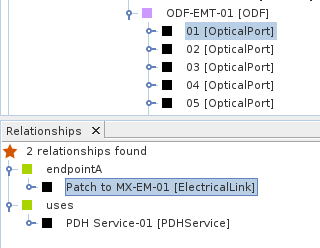
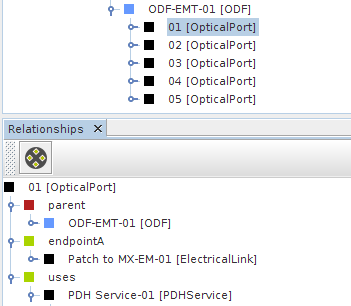
update admin and user manual

Changed region(s): [[0.0, 0.0, 1.0, 1.0]]

diff --git a/docs/user_manual/user_manual.tex b/docs/user_manual/user_manual.tex
@@ -79,6 +79,8 @@
 				July 27th 2016 & Adapted to Kuwaiba version 1.0. LaTeX is now used instead of LibreOffice to create the documentation. \\
 				\midrule
 				December 19th 2016 & Added documentation for templates and reports.\\
+				\midrule
+				June 1th 2017 & Added documentation for Bookmarks, Update Center, Projects and new functions in the Relationship Explorer.\\
 				\bottomrule
 			\end{tabular}	
 				
@@ -192,9 +194,13 @@
 			\midrule
 			\includegraphics[width=0.5cm]{img/icon_topology_designer.png} & Freely design network topologies\\
 			\midrule
+			\includegraphics[width=0.5cm]{img/icon_bookmarks.png} & Create and manage Bookmark Folders and Bookmarks\\
+			\midrule
 			\includegraphics[width=0.5cm]{img/icon_navigation_tree.png} & Main tree used to explore physical assets\\
 			\midrule
 			\includegraphics[width=0.5cm]{img/icon_pools_manager.png} & Create and manage objects that don't fit in the navigation tree\\
+			\midrule
+			\includegraphics[width=0.5cm]{img/icon_reports.png} & Crate and manage reports\\
 			\midrule
 			\includegraphics[width=0.5cm]{img/icon_service_manager.png} & Manage client, services and resources associated to them\\
 		\end{tabular}	
@@ -340,21 +346,30 @@
 	Every node has a set of actions, some will be active for all objects, some depend on the type of element that is selected. In the figure~\ref{fig:navigation_tree_context_menu} you can see the actions enabled for a \textbf{Rack} object. \\
 	\begin{figure}[h!]
 		\centering
-		\includegraphics[width=0.5\linewidth]{img/navigation_tree_context_menu.png}
-		\caption{Properties of a selected \textbf{Rack} object}
+		\includegraphics[width=0.7\linewidth]{img/navigation_tree_context_menu.png}
+		\caption{Actions of selected \textbf{Rack} object}
 		\label{fig:navigation_tree_context_menu}
 	\end{figure}
 	\begin{itemize}
-		\item \textbf{New Object:} The list of object types that can be contained for the selected element type according to the configured Containment Hierarchy. In this case, a \textbf{Rack} can only contain \textbf{Routers}.
+		\item \textbf{New:} The list of object types that can be contained for the selected element type according to the configured Containment Hierarchy. In this case, a \textbf{Rack} can contain \textbf{DDFs}, \textbf{ODFs}, \textbf{Routers}, etc.
+		\item \textbf{New from template:} Crates a containment structure. See more details in the chapter \nameref{sec:template_manager}
 		\item \textbf{Copy:} A plain copy operation.
+		\item \textbf{Cut:} A plain cut operation.
 		\item \textbf{Paste:} A plain paste operation. You can only paste objects where it is allowed according to the configured Containment Hierarchy.
-		\item \textbf{Update:} Update the node information. Useful when a changed has made to the object from a external source (e.g. another user) or if you create a new list type affecting one of the attributes of the selected element. In this case, if you, for example, create an instance of \textbf{EquipmentVendor} (this will add a new entry to the \textbf{vendor} attribute list)
-		\item \textbf{Delete:} Deletes the object. Tis will fail if the object has an incoming relationship, for example, a \textbf{Port} connected to a cable.
+		\item \textbf{Update:} Updates the node information. Useful when a changed has made to the object from a external source (e.g. another user) or if you create a new list type affecting one of the attributes of the selected element. In this case, if you, for example, create an instance of \textbf{EquipmentVendor} (this will add a new entry to the \textbf{vendor} attribute list)
+		\item \textbf{Edit:} Opens a Property Sheet to edit the attributes values of the selected Inventory object node.
+		\item \textbf{Delete:} Deletes the object. This will fail if the object has an incoming relationship, for example, a \textbf{Port} connected to a cable.
 		\item \textbf{Reports:} The reports associated to the objects of this class. In this case, \textbf{Rack} has a report called \textbf{Rack Usage}. If no reports are associated, this entry will appear grayed out.
 		\item \textbf{Relate to service:} All inventory objects can be associated to an existing service. See more details in the chapter \nameref{sec:service_manager}.
 		\item \textbf{Release from Service:} Removes the association between an object(resource) and a service. If the object is not related to any service, this option will appear grayed out.
+		\item \textbf{Add to Bookmark Folder:} All inventory objects can be added to an existing Bookmark Folder. See more details in the chapter \nameref{sec:bookmarks}.
+		\item \textbf{Remove from Bookmark Folder:} Removes the association between an object (bookmark) and a Bookmark Folder. If the object is not related to any Bookmark Folder, this option appear grayed out.
 		\item \textbf{Audit Trail:} This will display all the audit trail entries for the selected object, that is, all the changes made to the it.
-		\item \textbf{Open an Explorer from this Node:} Opens a navigation tree whose root node will be the selected object. Useful when you want to explore an object with a many containment levels below.
+		\item \textbf{Relate to Project:} All inventory object can be a resource of an existing Project. See more details in the chapter \nameref{sec:projects}
+		\item \textbf{Release from Project:} Removes a selected object (resource) form a Project. If the object is not related to any Project, this option appear grayed out.
+		\item \textbf{Relate to Contract:} All inventory objects can be associated to an existing Contract. See more details in chapter \nameref{sec:contract_manager}
+		\item \textbf{Release from Contract:} Removes the association between an object a contract. If the object is not related to any contract, this option will appear grayed out.
+		\item \textbf{Open a Navigation tree from Here:} Opens a Navigation tree whose root node will be the selected object. Useful when you want to explore an object with a many containment levels below.
 		\item \textbf{Show More Information:} Shows the database id of the selected object. Useful for troubleshooting purposes. It will also show the object's complete containment structure.
 			\begin{figure}[h!]
 				\centering
@@ -371,22 +386,52 @@
 	\end{framed}
 	\subsection{Relationship and Special Children Explorer} \label{sec:extra_explorers}
 	Apart from the main navigation tree, there are also two explorers that are very useful to navigate through domain-specific models. Both explorers are located in the Tools $\rightarrow$ Navigation menu.
-	\begin{itemize}
-		\item \textbf{Relationship Explorer:} Allows to see the special relationships of the selected object. When an object makes part of a domain-specific model (SDH, Physical Connections, MPLS, Software Licensing, etc) there are special bounds to other objects called \textbf{relationships} they have names documented on model-basis, and they can be seen using this explorer. In the figure~\ref{fig:navigation_tree_relationship_explorer}, it is depicted an \textbf{OpticalPort} with two relationships, one called \textbf{endpointA} used in the Physical Connections model and it indicates that this port is the endpoint to a physical connection, probably a fiber optic. It also has a relationship called \textbf{uses}, which makes part of the Service management model. It indicates that the service called PDH Service-01 uses that port as a resource.
-			\begin{figure}[h!]
-				\centering
-				\includegraphics[width=0.4\linewidth]{img/navigation_tree_relationship_explorer.png}
-				\caption{Special relationships of the selected \textbf{OpticalPort} object}
-				\label{fig:navigation_tree_relationship_explorer}
-			\end{figure}
-		\item \textbf{Special Children Explorer:} The special children are children as in the containment hierarchy concept, but used in domain-specific models, which gives them particular behavior depending on the situation (that is, they can't be handled as simple objects in the navigation tree, because, for example, deleting them may require to perform other tasks but just removing the object from the database as they make part of a complex workflow). This is the case of the cables inside a conduit connecting two buildings. You can find more details about this scenario in the chapter \textbf{\nameref{sec:physical_connections}}.
-			\begin{figure}[h!]
-				\centering
-				\includegraphics[width=0.3\linewidth]{img/navigation_tree_special_children_explorer.png}
-				\caption{Fibers inside a container between two buildings}
-				\label{fig:navigation_tree_special_children_explorer}
-			\end{figure}
-	\end{itemize}
+
+	\subsubsection{Relationship Explorer} \label{sec:extra_explorers_relationship_explorer}
+		Allows to see the special relationships of the selected object. When an object makes part of a domain-specific model (SDH, Physical Connections, MPLS, Software Licensing, etc) there are special bounds to other objects called \textbf{relationships} they have names documented on model-basis, and they can be seen using this explorer. In the figure~\ref{fig:navigation_tree_relationship_explorer}, it is depicted an \textbf{OpticalPort} with three relationships, one called \textbf{parent}, which all inventory objects has and it is used to navigate in the containment structure, the \textbf{endpointA} used in the Physical Connections model and it indicates that this port is the endpoint to a physical connection, probably a fiber optic. It also has a relationship called \textbf{uses}, which makes part of the Service management model. It indicates that the service called PDH Service-01 uses that port as a resource.
+		
+		\begin{figure}[h!]
+			\centering
+			\includegraphics[width=0.4\linewidth]{img/navigation_tree_relationship_explorer.png}
+			\caption{Special relationships of the selected \textbf{OpticalPort} object}
+			\label{fig:navigation_tree_relationship_explorer}
+		\end{figure}
+		
+		In the Relationship Explorer you have a toolbar with one button which allows you navigate through the special relationships by means of a graphical representation, you can open the canvas figure~\ref{fig:graphical_representation_relationships} just right click in the icon \includegraphics[width=0.5cm]{img/icon_graphical_representation_relationships.png}		
+						
+		\begin{figure}[h!]
+			\centering
+			\includegraphics[width=0.4\linewidth]{img/graphical_representation_relationships.png}
+			\caption{Special relationships canvas}
+			\label{fig:graphical_representation_relationships}
+		\end{figure}
+			
+		In the canvas figure~\ref{fig:graphical_representation_relationships} you have a toolbar with a set of option listed in the Table~\ref{tab:graphical_representation_relationships_toolbar_icons}.
+			
+		\begin{table}[h!]
+			\centering
+			\begin{tabular}{cl}
+				\includegraphics[width=0.5cm]{img/icon_collapse_all.png} & Hide all special relationships\\
+				\midrule
+				\includegraphics[width=0.5cm]{img/icon_export_as_image.png} & Export as image\\
+				\midrule
+				\includegraphics[width=0.5cm]{img/icon_reorganize_nodes.png} & If the nodes are overlapped, you can organize them using this button\\
+				\midrule
+			\end{tabular}
+			\caption{Graphical representation of special relationships toolbar icons}
+			\label{tab:graphical_representation_relationships_toolbar_icons}
+		\end{table}
+			
+		\subsubsection{Special Children Explorer} \label{sec:extra_explorers_children_explorer}							
+		The special children are children as in the containment hierarchy concept, but used in domain-specific models, which gives them particular behavior depending on the situation (that is, they can't be handled as simple objects in the navigation tree, because, for example, deleting them may require to perform other tasks but just removing the object from the database as they make part of a complex workflow). This is the case of the cables inside a conduit connecting two buildings. You can find more details about this scenario in the chapter \textbf{\nameref{sec:physical_connections}}.
+						
+		\begin{figure}[h!]
+			\centering
+			\includegraphics[width=0.3\linewidth]{img/navigation_tree_special_children_explorer.png}
+			\caption{Fibers inside a container between two buildings}
+			\label{fig:navigation_tree_special_children_explorer}
+		\end{figure}
+			
 	\newpage
 	\section{Template Manager} \label{sec:template_manager}
 	In many scenarios there are some containment structures that are created recurrently, like Building $\rightarrow$ Floor $\rightarrow$ Room $\rightarrow$ Rack, or ODF/DDFs with the same number of ports (12/24/36/48/72/96/144), or simply equipment with the same set of attributes, for example all the routers of certain model: The vendor, number of rack units, slots, etc will be always the same. Creating them from scratch every time is a tedious task. For this reason, Kuwaiba provides a module that allows you to create template of objects which actual inventory elements can be created from. Go to Tools $\rightarrow$ Template Manager to open it.
@@ -1738,7 +1783,7 @@
 			\label{fig:ipam_root_nodes_actions}
 		\end{figure}
 		
-		\subsubsection{Folders}
+		\subsection{Folders}
 		A folder is a way to store and arrange several subnets, you can create as many folders as you want, you can also create a folder inside other folder.
 		\begin{figure}[h!]
 			\centering
@@ -1749,7 +1794,7 @@
 		
 		Once you create a folder, you could edit its attributes, \textbf{name} and \textbf{description} in the property sheet just like any other element in kuwaiba
 
-		\subsubsection{Creating Subnets}
+		\subsection{Creating Subnets}
 		\begin{figure}[h!]
 			\centering
 			\includegraphics[width=0.4\linewidth]{img/ipam_folder_actions.png}
@@ -1767,7 +1812,7 @@
 			\label{fig:ipam_add_subnet}
 		\end{figure}
 		
-		\subsubsection{Adding IPs}
+		\subsection{Adding IPs}
 		
 		Once you have created a subnet you can an add an IP address or a range of IP addresses, making right click in the subnet and then selecting \textit{add IP address} kuwaiba will show you a form to add IPs.
 		\begin{figure}[h!]
@@ -1785,7 +1830,7 @@
 			\label{fig:ipam_add_ip_address}
 		\end{figure}
 	
-	   	\subsubsection{Creating nested Subnets}
+	   	\subsection{Creating nested Subnets}
 	   	
 		Subnets can be nested inside other subnets as long as the limits of subnet you are trying to nest belongs  completely to the biger subnet, to nest a a subnet inside other subnet, make right click in the wished subnet and then select \textit{Create subnet}, Kuwaiba will show you the form to create a subnet, by default the subnet field will be filled with the bigger subent Network IP address, so you shall complete the CIDR format with the number of bits for the mask.
 		\begin{figure}[h!]
@@ -1997,7 +2042,7 @@
 		\end{figure}
 		
 		Currently is only possible to add/remove groups to/from a user (not vice versa)
-		
+				
 		\newpage
 		\section{Bulk import}\label{sec:bulk_import}
 			Kuwaiba  provides a  way  to  import  objects  and  list  types  from CVS text files with a define format.  This  module  can be  found at \textit{Tools} $\rightarrow$ \textit{Bulk Import}. Examples of these files are included in the client installer bundle under the directory \textit{Samples}.
@@ -2094,5 +2139,96 @@
 					\item If you perform changes infile after loading it (that is, after pressing \textit{Select file}), you will have to select it again so it can take the changes, otherwise, it will process the old file instead. To save the output messages, right-click the window.
 					\end{itemize}
 				\end{framed}
+		\newpage
+		\section{Bookmarks}\label{sec:bookmarks}
+		
+			The Bookmarks module let you manage bookmarks. In Kuwaiba a bookmark are an object of the inventory which are pooled in a bookmark folder. To open the Bookmarks module look in the menu for Tools $\rightarrow$ Bookmarks or just click in the icon
+			\includegraphics[width=0.5cm]{img/icon_bookmarks.png}
+			
+			\begin{figure}[h!]
+				\centering
+				\includegraphics[width=0.5\linewidth]{img/bookmarks.png}
+				\caption{Bookmarks sample}
+				\label{fig:bookmakrs}
+			\end{figure}
+			
+			To add a object from the Navigation Tree just right click and select the option of Add to bookmark folder \textbf{figure~\ref{fig:add_to_bookmark_folder}} or Remove from Bookmark Folder to remove it.
+						
+			\begin{figure}[h!]
+				\centering
+				\includegraphics[width=0.8\linewidth]{img/bm_add_to_bookmark_folder.png}
+				\caption{Add to Bookmark folder}
+				\label{fig:add_to_bookmark_folder}
+			\end{figure}
+							
+		\newpage
+		\section{Update Center}\label{sec:update_center}
+		The Update Center module is used to get the latest version of Kuwaiba. Your Administrator must provided to you a URL where was located the update center. To open the Update Center module look in the menu for Tools $\rightarrow$ Update Center
+		\newline
+		Once the Update Center URL was assigned, and doing just click in the OK button, must be begin the update right away. For the next Kuwaiba run if  there are updates, the update will be automatically, and if is necessary restart the application, it shows a notification to begin the restart.
+		\newline
+		For details see Appendix E in the administrator's manual
+		
+		\begin{figure}[h!]
+			\centering
+			\includegraphics[width=0.7\linewidth]{img/update_center.png}
+			\caption{Update Center options}
+			\label{fig:update_center_options}
+		\end{figure}		
+		
+		\newpage		
+		\section{Projects}\label{sec:projects}
+		
+			The Project module allows you have all projects, activities and resources in a place. To open the Projects module look in the menu for Tools $\rightarrow$ Advanced $\rightarrow$ Projects
+			\newline
+			
+			\begin{figure}[h!]
+				\centering
+				\includegraphics[width=0.5\linewidth]{img/projects.png}
+				\caption{Projects sample}
+				\label{fig:projects}
+		    \end{figure}
+		    
+		    To start using the Projects module you must crate a Project, depending of the loaded data model you can create project of GeneralPurposeProject or NetworkProject or any subclass of GenericProject (see \textbf{\nameref{sec:data_model_manager}} if you need to create a different kind  of Projects).
+		    \newline
+		    
+		    \begin{figure}[h!]
+		    	\centering
+		    	\includegraphics[width=0.5\linewidth]{img/projects_actions.png}
+		    	\caption{Add Projects}	    
+		    	\label{fig:projects_actions}
+		    \end{figure}
+		    
+		    A Project can contain sub projects or activities, you can create an activity just making right click in a Project an selecting the kind of Activity you want to add, if you need to create a different kind of Activities (see \textbf{\nameref{sec:data_model_manager}})
+		    \newline
+		    
+		    \begin{figure}[h!]
+		    	\centering
+		    	\includegraphics[width=0.5\linewidth]{img/activity_actions.png}
+		    	\caption{Add Activity}
+		    	\label{fig:activity_actions}
+		    \end{figure}
+		    
+		    The Projects has relate resources that are inventory objects in the Navigation tree. you can relate or release objects just making right click in a Inventory object \textbf{figure~\ref{fig:pm_relate_to_project}}.
+		    \newline
+		    		    
+		    \begin{figure}[h!]
+		    	\centering
+		    	\includegraphics[width=0.9\linewidth]{img/pm_relate_to_project.png}
+		    	\caption{Relate to Project Action}
+		    	\label{fig:pm_relate_to_project}
+		    \end{figure}
+		    
+		    If you have an old data base, the data model for Projects module are not available, and when try open the Projects explorer or relate an object with a Project
+		    Kuwaiba show you the message like in the \textbf{figure~\ref{fig:patch_projects}}.
+		    \newline
+		    
+		    \begin{figure}[h!]
+		    	\centering
+		    	\includegraphics[width=0.8\linewidth]{img/patch_projects.png}
+		    	\caption{Projects data model error}
+		    	\label{fig:patch_projects}
+		    \end{figure}
+				
 				
 \end{document}

diff --git a/docs/admin_manual/admin_manual.tex b/docs/admin_manual/admin_manual.tex
@@ -67,6 +67,9 @@
 				December 9th 2016 & Added notes about configuring Glassfish to start on boot. \\
 				\midrule
 				March 24th 2017 & Added notes about configuring Glassfish to support HTTP compression. \\
+				\midrule
+				June 1th 2017 & Added Appendix E Configuring Update Center
+				\midrule
 				\bottomrule
 			\end{tabular}	
 				
@@ -152,6 +155,8 @@
 						\item \textbf{03\_data\_kuwaiba.db.zip}: Contains the same as 02\_containment\_kuwaiba.db plus some objects, views and tasks 
 						
 					\end{itemize} \\
+					\midrule
+					updates.zip & This file contains a updates.xml file and the set of Netbeans module file (.NBM) for the current Kuwaiba version. See \textbf{\nameref{app:AppendixE}}\\
 					\midrule
 					KuwaibaServer.ear & The enterprise application to be deployed on the application server \\
 					\midrule
@@ -524,6 +529,21 @@
 						\label{fig:enabling-compression}
 					\end{figure}
 				\end{enumerate}
+			\newpage
+			\section{Appendix E. Configuring Update Center} \label{app:AppendixE}
+			Since version 1.5, the Kuwaiba client can be updated using an update center. An \textbf{Update Center} are a set of files which are putting in a server to be download by client application. The server can be anyone; e.g., GlassFish, Apache, Apache Tomcat. Once the server are selected, unzip the updates.zip and locate the files in the server, and find the URL for the \textbf{updates.xml} file, this URL are used to configure the Kuwiaba client to get the latest version \textbf{figure~\ref{fig:update_center_options}}.
+			
+			\begin{figure}[h!]
+				\centering
+				\includegraphics[width=0.7\linewidth]{img/update_center.png}
+				\caption{Update Center options}
+				\label{fig:update_center_options}
+			\end{figure}
+						
+			In the kuwaiba client you must configure the update center. To open the Update Center module look in the menu for Tools $\rightarrow$ Update Center. Once the Update Center URL was assigned, the update must begin right away. For the next Kuwaiba run if there are updates, the update will be automatically, and if is necessary restart the application, it shows a notification to begin the restart.
+			\newline
+			\newline
+			You can decide no configure a server for the update center, in this case in the Kuwaiba client there are an option to hide the warnings generated when not found the update.xml resource  \textbf{figure~\ref{fig:update_center_options}}.					
 			
 		\end{appendices}			
 \end{document}
